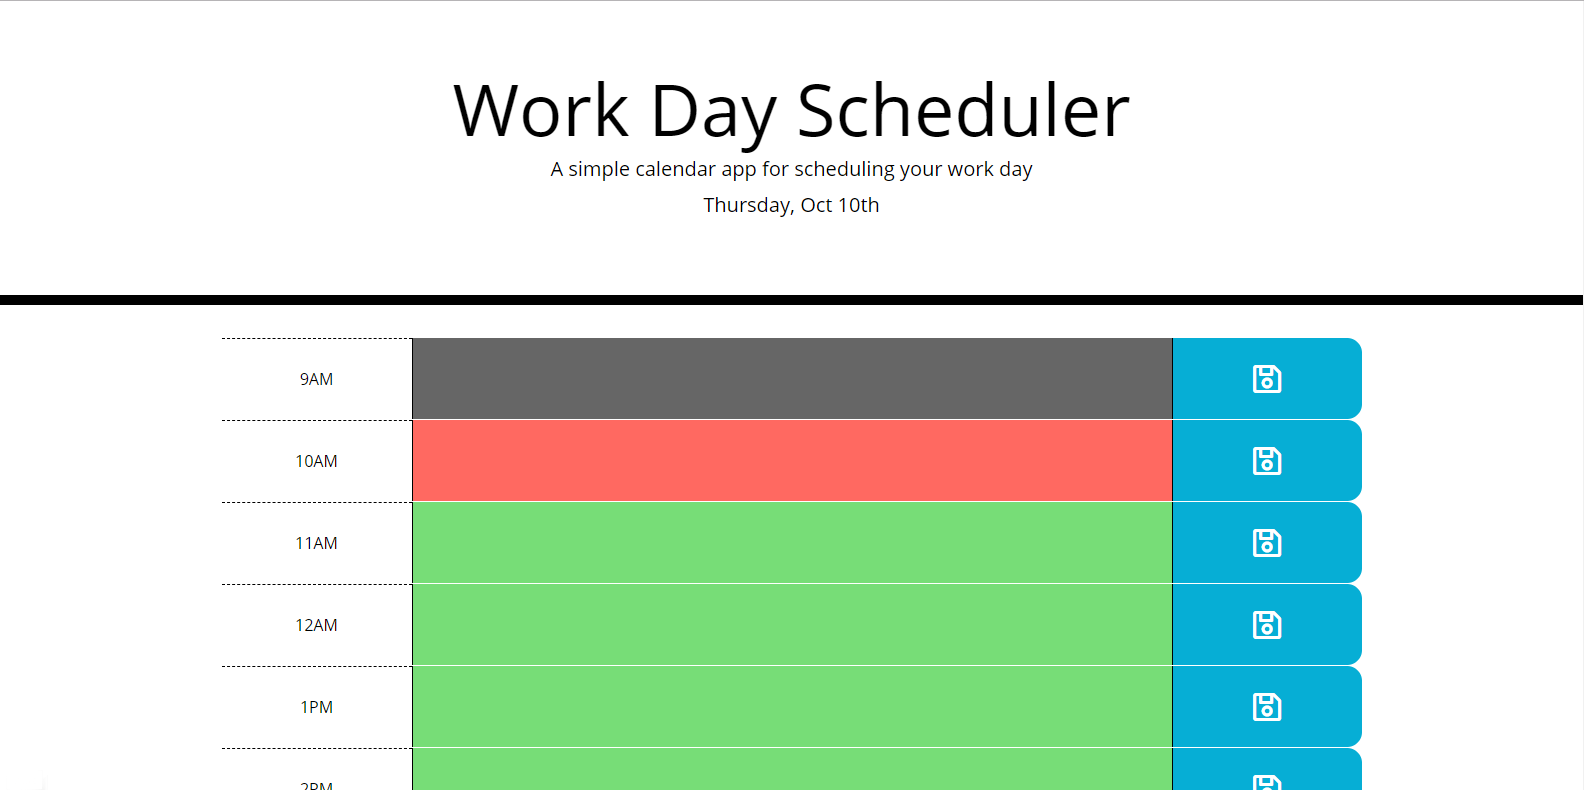
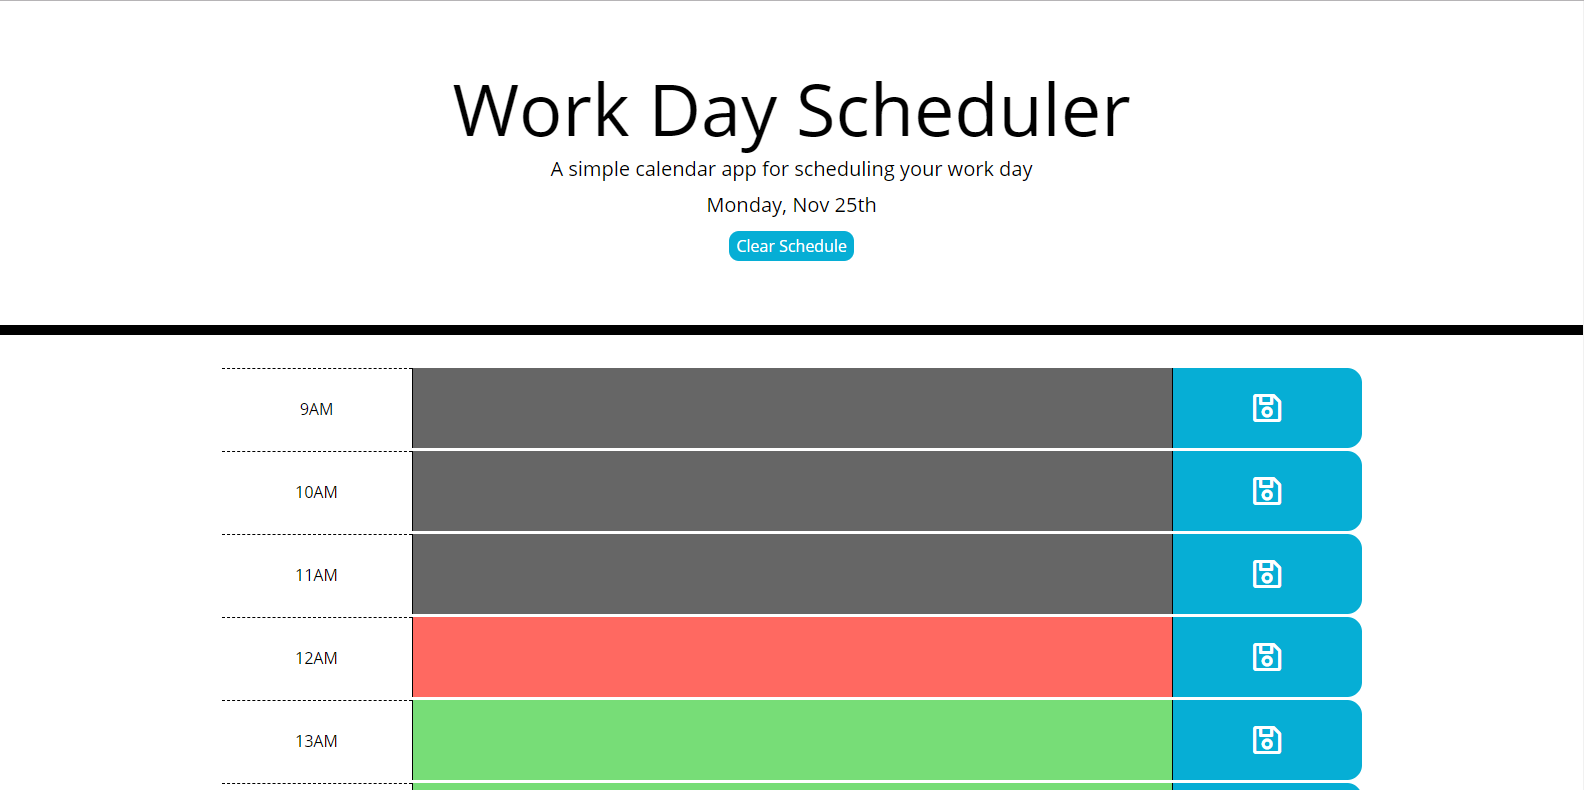
Added clear data functionality

diff --git a/assets/js/scripts.js b/assets/js/scripts.js
@@ -73,4 +73,13 @@ localStorage.setItem('timeTrackObject', JSON.stringify(timeTrackObject));
 
 });
 
+// 7.Button to clear all data currently corrected.
+
+$("body").on('click', "#clearData", function(e){
+  localStorage.setItem('timeTrackObject', "");
+  $(".time-block").each(function(){
+    $(this).find(".description textarea").val('');
+  });
+});
+
 });

diff --git a/index.html b/index.html
@@ -17,6 +17,7 @@
       <h1 class="display-3">Work Day Scheduler</h1>
       <p class="lead">A simple calendar app for scheduling your work day</p>
       <p id="currentDay" class="lead"> </p>
+      <button id="clearData">Clear Schedule</button>
     </header>
     <div class="container">
       <!-- Timeblocks go here -->

diff --git a/assets/css/styles.css b/assets/css/styles.css
@@ -88,3 +88,13 @@ textarea{
   font-size: 40px;
   transition: all .2s ease-in-out;
 }
+
+#clearData{
+  border: 1px solid transparent;
+  border-radius:10px;
+  background-color: #06AED5;
+  color: white;
+  cursor: pointer;
+  position: relative;
+  min-height: 30px;
+}
